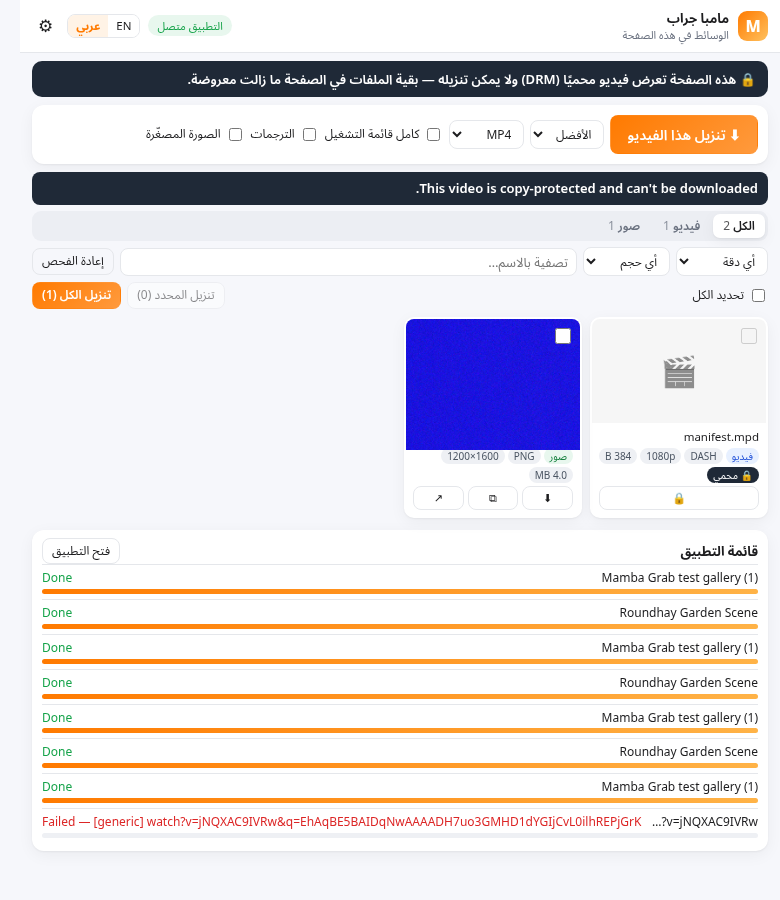
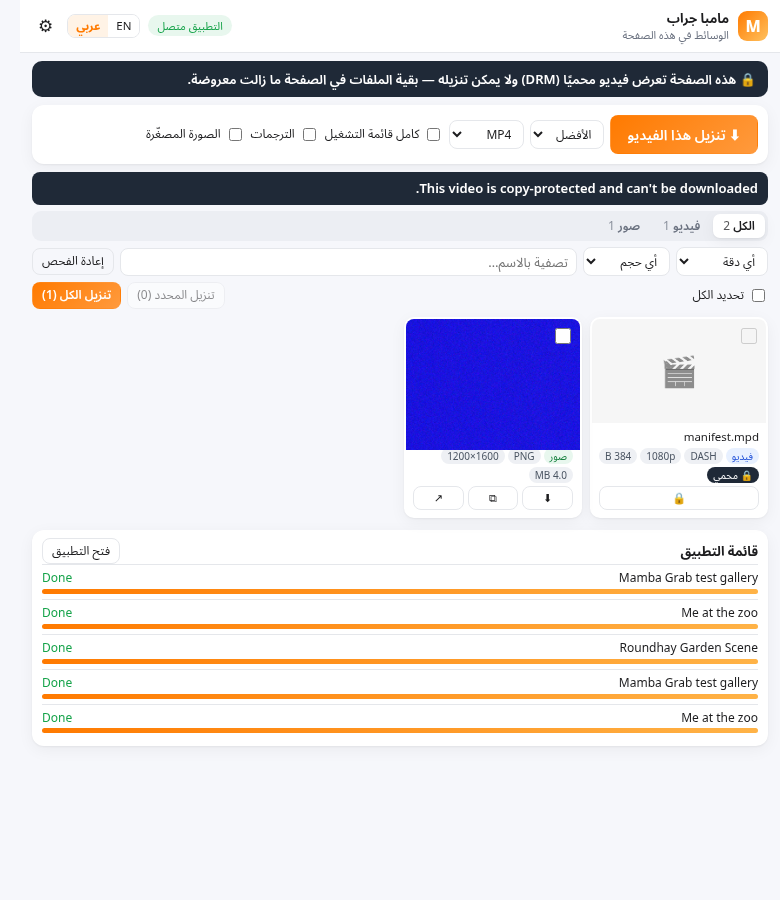
Popup: light thumbnails for upgraded originals + lazy resolution measuring; Wikimedia thumb host → originals; wiki page links are not files; one-click prefers the page's real stream on unknown sites; page title kept for sniffed streams; CI UI screenshots

Changed region(s): [[0.0615, 0.7156, 0.9846, 0.9333], [0.7692, 0.6222, 0.9846, 0.6844]]

diff --git a/extension/popup.js b/extension/popup.js
@@ -128,6 +128,19 @@ async function enrich() {
   $('#sizeNote').textContent = '';
   render();
   window.__scanDone = true;
+  measureDims();
+}
+
+// real dimensions of upgraded originals (loaded off-screen only when a resolution filter needs them)
+let measuring = false;
+async function measureDims() {
+  if (measuring || !(+S.minRes)) return; measuring = true;
+  const todo = items.filter(i => i.kind === 'image' && i.upgradedFrom && !i.dimsKnown);
+  $('#sizeNote').textContent = todo.length ? t('checkingSizes') : '';
+  let k = 0;
+  const one = (it) => new Promise((res) => { const im = new Image(); const to = setTimeout(() => { im.src = ''; res(); }, 15000); im.onload = () => { clearTimeout(to); it.width = im.naturalWidth; it.height = im.naturalHeight; it.dimsKnown = true; res(); }; im.onerror = () => { clearTimeout(to); res(); }; im.src = it.url; });
+  await Promise.all([0, 1, 2, 3].map(async () => { while (k < todo.length) { await one(todo[k++]); if (k % 6 === 0) render(); } }));
+  $('#sizeNote').textContent = ''; measuring = false; render(); window.__dimsDone = true;
 }
 
 // ───────── render ─────────
@@ -160,11 +173,12 @@ function render() {
     const locked = isLocked(it);
     const c = document.createElement('div'); c.className = 'card' + (selected.has(it.url) ? ' sel' : '') + (locked ? ' locked' : '');
     const th = document.createElement('div'); th.className = 'th';
-    const thumbUrl = it.kind === 'image' ? it.url : it.thumb;
+    // upgraded originals can be huge → the grid shows the page's own small version, the download is the original
+    const thumbUrl = it.kind === 'image' ? (it.upgradedFrom || it.url) : it.thumb;
     if (thumbUrl && /^(https?|data):/.test(thumbUrl)) {
       const img = document.createElement('img'); img.loading = 'lazy'; img.referrerPolicy = 'no-referrer-when-downgrade'; img.src = thumbUrl;
-      img.onload = () => { if (it.kind === 'image' && (!it.width || !it.dimsKnown)) { const chg = it.width !== img.naturalWidth; it.width = img.naturalWidth; it.height = img.naturalHeight; it.dimsKnown = true; if (chg) dims(c, it); } };
-      img.onerror = () => { if (it.upgradedFrom && img.src !== it.upgradedFrom) { it.url = it.upgradedFrom; delete it.upgradedFrom; img.src = it.url; } else { img.remove(); th.textContent = ICON[it.kind] || '📎'; } };
+      img.onload = () => { if (it.kind === 'image' && !it.upgradedFrom && (!it.width || !it.dimsKnown)) { const chg = it.width !== img.naturalWidth; it.width = img.naturalWidth; it.height = img.naturalHeight; it.dimsKnown = true; if (chg) dims(c, it); } };
+      img.onerror = () => { img.remove(); th.textContent = ICON[it.kind] || '📎'; };
       th.appendChild(img);
     } else th.textContent = ICON[it.kind] || '📎';
     th.title = it.url; th.onclick = () => toggle(it, c);
@@ -251,7 +265,7 @@ document.addEventListener('DOMContentLoaded', async () => {
   $('#quality').onchange = () => save({ quality: $('#quality').value });
   $('#format').onchange = () => save({ format: $('#format').value });
   for (const k of ['optPlaylist', 'optSubs', 'optThumb']) $('#' + k).onchange = () => save({ [k.slice(3).toLowerCase()]: $('#' + k).checked });
-  $('#minRes').onchange = () => { save({ minRes: $('#minRes').value }); render(); };
+  $('#minRes').onchange = () => { save({ minRes: $('#minRes').value }); render(); measureDims(); };
   $('#minSize').onchange = () => { save({ minSize: $('#minSize').value }); render(); };
   $('#q').oninput = () => render();
   $('#rescan').onclick = () => scanTab();

diff --git a/src/main.js b/src/main.js
@@ -40,7 +40,7 @@ const queue = new Queue({
   stateFile: path.join(USER, 'queue.json'), tempDir: path.join(USER, 'tmp')
 });
 
-let win = null, tray = null, pipe = null, quitting = false, extSeen = 0;
+let win = null, tray = null, pipe = null, quitting = false, extSeen = settings.lastExtSeen || 0;
 const icon = () => nativeImage.createFromPath(path.join(__dirname, '..', 'build', 'icon.png'));
 
 function createWindow(show = true) {
@@ -50,6 +50,17 @@ function createWindow(show = true) {
   win.removeMenu();
   win.loadFile(path.join(__dirname, 'renderer', 'index.html'));
   win.once('ready-to-show', () => { if (show) win.show(); });
+  if (process.env.MAMBA_UI_SHOT) { // test hook: screenshot of the main window (optionally a tab) then quit
+    win.webContents.once('did-finish-load', async () => {
+      await new Promise(r => setTimeout(r, 1500));
+      if (process.env.MAMBA_UI_TAB) await win.webContents.executeJavaScript(`document.querySelector('.tab[data-tab="${process.env.MAMBA_UI_TAB}"]').click()`);
+      if (process.env.MAMBA_UI_URL) { await win.webContents.executeJavaScript(`document.querySelector('#url').value=${JSON.stringify(process.env.MAMBA_UI_URL)};document.querySelector('#analyze').click()`); await new Promise(r => setTimeout(r, +process.env.MAMBA_UI_WAIT || 9000)); }
+      if (process.env.MAMBA_UI_LANG) await win.webContents.executeJavaScript(`document.querySelector('.lang button[data-lang="${process.env.MAMBA_UI_LANG}"]').click()`);
+      await new Promise(r => setTimeout(r, 600));
+      fs.writeFileSync(process.env.MAMBA_UI_SHOT, (await win.webContents.capturePage()).toPNG());
+      quitting = true; app.exit(0);
+    });
+  }
   win.on('close', (e) => {
     if (!quitting && settings.keepInTray && tray) { e.preventDefault(); win.hide(); }
   });
@@ -95,13 +106,18 @@ function jobFromExtension(spec) {
   };
 }
 
+function seenExt() {
+  const first = Date.now() - (settings.lastExtSeen || 0) > 60000;
+  extSeen = settings.lastExtSeen = Date.now(); toRenderer('ext', { seen: extSeen });
+  if (first) saveSettings();
+}
 // handlers shared by the pipe (extension) and the renderer
 const H = {
-  ping: async () => { extSeen = Date.now(); toRenderer('ext', { seen: extSeen }); return { ok: true, app: app.getVersion(), ytdlp: versions.ytdlp, ffmpeg: versions.ffmpeg, outDir: settings.outDir }; },
+  ping: async () => { seenExt(); return { ok: true, app: app.getVersion(), ytdlp: versions.ytdlp, ffmpeg: versions.ffmpeg, outDir: settings.outDir }; },
   show: async () => { createWindow(true); return { ok: true }; },
   list: () => queue.list(),
   jobs: async () => ({ ok: true, jobs: queue.list() }),
-  enqueue: async (m) => { extSeen = Date.now(); const j = queue.add(jobFromExtension(m.job || {})); if (j.status === 'drm') return { ok: false, drm: true, job: j, message: j.message }; return { ok: true, job: j }; },
+  enqueue: async (m) => { seenExt(); const j = queue.add(jobFromExtension(m.job || {})); if (j.status === 'drm') return { ok: false, drm: true, job: j, message: j.message }; return { ok: true, job: j }; },
   cancel: async (m) => ({ ok: queue.cancel(m.jobId) }),
   retry: async (m) => ({ ok: queue.retry(m.jobId) }),
   probe: async (m) => { if (!ytdlpBin) return { ok: false, error: 'yt-dlp missing' }; return Y.probe(ytdlpBin, m.url, Object.assign({ playlist: m.playlist, referer: m.referer, cookiesFromBrowser: m.cookiesFromBrowser }, jsCtx())); },

diff --git a/extension/content.js b/extension/content.js
@@ -22,6 +22,11 @@
   const LAZY_ATTRS = ['data-src', 'data-original', 'data-lazy-src', 'data-lazy', 'data-url', 'data-hi-res-src', 'data-hires', 'data-full', 'data-full-src', 'data-fullsrc', 'data-large', 'data-large-src', 'data-zoom', 'data-zoom-image', 'data-zoom-src', 'data-big', 'data-orig', 'data-orig-file', 'data-original-src', 'data-image', 'data-img', 'data-highres', 'data-actualsrc', 'data-pin-media', 'data-flickity-lazyload'];
   const LAZY_SRCSET = ['data-srcset', 'data-lazy-srcset', 'data-original-set'];
 
+  // wiki-style pages named after a file ("/wiki/File:Clip.ogv", "index.php?title=…") are HTML pages, not files
+  function looksLikePage(h) {
+    try { const pu = new URL(h); let p = pu.pathname; try { p = decodeURIComponent(p); } catch (e) { } return /\/wiki\/|\/index\.php/i.test(pu.pathname) || /[^/]:[^/]/.test(p) || pu.searchParams.has('title'); } catch (e) { return true; }
+  }
+
   function scan() {
     const items = new Map();
     const add = (it) => {
@@ -46,7 +51,7 @@
       for (const a of LAZY_ATTRS) { const v = abs(img.getAttribute(a)); if (v && !/^data:/.test(v)) cands.push({ url: v, w: 0, lazy: true }); }
       // a wrapping link that points at an image file is usually the full-size original
       const link = img.closest('a[href]');
-      if (link) { const h = abs(link.getAttribute('href')); if (h && U.classify(h).kind === 'image') cands.push({ url: h, w: 1e9, link: true }); }
+      if (link) { const h = abs(link.getAttribute('href')); if (h && !looksLikePage(h) && U.classify(h).kind === 'image') cands.push({ url: h, w: 1e9, link: true }); }
       if (!cands.length) continue;
       // pick: linked original > lazy full > largest srcset > current
       const best = cands.find(c => c.link) || cands.filter(c => c.srcset).sort((a, b) => b.w - a.w)[0] || cands.find(c => c.lazy) || cands[0];
@@ -102,8 +107,7 @@
     for (const a of document.querySelectorAll('a[href]')) {
       let h = abs(a.getAttribute('href')); if (!h || !/^https?:/i.test(h)) continue;
       h = h.split('#')[0]; if (h === here) continue;
-      // wiki-style pages named after a file ("/wiki/File:Clip.ogv", "?title=…") are HTML pages, not files
-      try { const pu = new URL(h); if (/\/wiki\/|\/index\.php/i.test(pu.pathname) || /[^/]:[^/]/.test(decodeURIComponent(pu.pathname)) || pu.searchParams.has('title')) continue; } catch (e) { continue; }
+      if (looksLikePage(h)) continue;
       const c = U.classify(h);
       if (c.kind === 'other' || c.kind === 'segment') continue;
       add({ url: h, source: 'link', title: (a.textContent || '').trim().slice(0, 120) || a.title || '', thumb: c.kind === 'image' ? h : null, upgrade: c.kind === 'image' ? U.upgradeCandidates(h) : undefined });

diff --git a/test/run-tests.js b/test/run-tests.js
@@ -12,7 +12,7 @@ async function test(name, fn, { optional } = {}) {
   catch (e) { if (optional) results.push(`SKIP/INFO ${name}: ${e.message.split('\n')[0]}`); else { failed++; results.push(`FAIL ${name}: ${e.stack || e}`); } }
   console.log(results[results.length - 1]);
 }
-const WORK = path.join(__dirname, 'work'); fs.rmSync(WORK, { recursive: true, force: true }); fs.mkdirSync(WORK, { recursive: true });
+const WORK = path.join(__dirname, 'work', 'unit'); fs.rmSync(WORK, { recursive: true, force: true }); fs.mkdirSync(WORK, { recursive: true });
 
 (async () => {
   // ───────── extension helpers ─────────
@@ -37,6 +37,7 @@ const WORK = path.join(__dirname, 'work'); fs.rmSync(WORK, { recursive: true, fo
   await test('original-size upgrades for common sites', () => {
     const up = (u) => U.upgradeCandidates(u)[0];
     assert.strictEqual(up('https://upload.wikimedia.org/wikipedia/commons/thumb/a/a9/Example.jpg/220px-Example.jpg'), 'https://upload.wikimedia.org/wikipedia/commons/a/a9/Example.jpg');
+    assert.strictEqual(up('https://thumb.wikimedia.org/wikipedia/commons/thumb/1/1b/1_pano.jpg/250px-1_pano.jpg?utm_source=x'), 'https://upload.wikimedia.org/wikipedia/commons/1/1b/1_pano.jpg');
     assert.strictEqual(up('https://pbs.twimg.com/media/Fabc?format=jpg&name=small'), 'https://pbs.twimg.com/media/Fabc?format=jpg&name=orig');
     assert.strictEqual(up('https://i.pinimg.com/236x/aa/bb/cc/abc.jpg'), 'https://i.pinimg.com/originals/aa/bb/cc/abc.jpg');
     assert.strictEqual(up('https://example.com/wp-content/uploads/2024/01/photo-300x200.jpg'), 'https://example.com/wp-content/uploads/2024/01/photo.jpg');
@@ -125,6 +126,7 @@ const WORK = path.join(__dirname, 'work'); fs.rmSync(WORK, { recursive: true, fo
     a = Y.buildArgs(job({ playlist: true, items: '1-3', subs: true, embedSubs: true, thumb: true, embedThumb: true, cookiesFile: '/tmp/c.txt', referer: 'https://ref/' }));
     for (const x of ['--yes-playlist', '-I', '--write-subs', '--embed-subs', '--write-thumbnail', '--embed-thumbnail', '--cookies', '--referer']) assert.ok(a.includes(x), 'missing ' + x);
     assert.ok(a[a.indexOf('-o') + 1].includes('%(playlist_index'));
+    a = Y.buildArgs(job({ forceTitle: 'My: page 100%' })); assert.strictEqual(a[a.indexOf('-o') + 1], 'My page 100%% [%(id)s].%(ext)s');
     a = Y.buildArgs(job({ cookiesFromBrowser: 'edge' })); assert.strictEqual(a[a.indexOf('--cookies-from-browser') + 1], 'edge');
     for (const q of ['best', '1080', 'audio']) for (const f of ['mp4', 'mkv', 'webm', 'mp3', 'flac']) for (const x of Y.FORBIDDEN_ARGS) assert.ok(!Y.buildArgs(job({ quality: q, format: f })).includes(x));
   });

diff --git a/test/e2e-extension.js b/test/e2e-extension.js
@@ -52,6 +52,9 @@ const sleep = (ms) => new Promise(r => setTimeout(r, ms));
   ok('extension loads with the fixed ID', extId === EXT_ID, extId);
   // downloads go to a known folder
   await sw.evaluate(() => chrome.storage.local.set({ subfolder: true, lang: 'en' }));
+  // the app is started by the native host on demand (as the extension does with "start the app automatically")
+  const boot = await sw.evaluate(() => new Promise(r => chrome.runtime.sendNativeMessage('com.ammar.mambagrab', { cmd: 'ping', launch: true }, (x) => r(x || { error: chrome.runtime.lastError && chrome.runtime.lastError.message }))));
+  ok('native host auto-starts the app', boot && boot.ok === true, JSON.stringify(boot));
 
   async function popupFor(page) {
     const tabId = await sw.evaluate(async (u) => (await chrome.tabs.query({})).find(t => t.url === u).id, page.url());
@@ -151,8 +154,8 @@ const sleep = (ms) => new Promise(r => setTimeout(r, ms));
       const gp = await ctx.newPage(); await gp.goto('https://commons.wikimedia.org/wiki/Category:Featured_pictures_of_landscapes', { waitUntil: 'domcontentloaded' }); await sleep(3000);
       ({ pop } = await popupFor(gp)); it = await itemsOf(pop);
       const imgs = it.filter(i => i.kind === 'image'); const up = imgs.filter(i => i.upgradedFrom);
-      ok('Commons gallery: thumbnails upgraded to originals', up.length >= 5, `${imgs.length} images, ${up.length} upgraded, e.g. ${up[0] && up[0].url}`);
-      await pop.selectOption('#minRes', '1920'); await sleep(1500); const nBig = await pop.$$eval('.card', c => c.length); info(`gallery: ${nBig} images ≥ 1920px after loading`);
+      ok('Commons gallery: thumbnails upgraded to originals', up.length >= 20 && !imgs.some(i => /\/wiki\/File:/.test(i.url)), `${imgs.length} images, ${up.length} upgraded, e.g. ${up[0] && up[0].url}`);
+      await pop.selectOption('#minRes', '1920'); await pop.waitForFunction(() => window.__dimsDone === true, null, { timeout: 120000 }).catch(() => { }); const nBig = await pop.$$eval('.card', c => c.length); info(`gallery: ${nBig} images ≥ 1920px after loading`);
       await pop.screenshot({ path: path.join(SHOTS, 'popup-commons-gallery.png'), fullPage: true }); await pop.selectOption('#minRes', '0'); await pop.close(); await gp.close();
     } catch (e) { ok('Commons gallery page', false, e.message); }
     try {

diff --git a/extension/background.js b/extension/background.js
@@ -193,9 +193,12 @@ async function downloadThisVideo(tabId, o) {
   if (sniffed.some(i => i.drm)) return { ok: false, drm: true, message: T('drmBlocked', lang) };
   const streams = sniffed.filter(i => i.stream).sort((a, b) => (b.height || 0) - (a.height || 0));
   const files = sniffed.filter(i => !i.stream && i.kind === 'video').sort((a, b) => (b.size || 0) - (a.size || 0));
-  const fallbackUrls = [o.src, ...streams.map(i => i.url), ...files.map(i => i.url)].filter(Boolean);
-  // 1) companion app (yt-dlp on the page URL; falls back to the sniffed stream/file)
-  const r = await sendToApp({ url: o.url || pageUrl, referer: pageUrl, title: o.title, fallbackUrls, quality: o.quality, format: o.format });
+  const candidates = [...streams.map(i => i.url), ...(isDirectHttp(o.src) ? [o.src] : []), ...files.map(i => i.url)].filter((u, i, a) => u && a.indexOf(u) === i);
+  // 1) companion app. Sites yt-dlp knows (YouTube, Vimeo, Commons…) → page URL (best formats, metadata, playlists).
+  //    Elsewhere → the stream/file the page actually plays (HLS/DASH master first), page URL as the last resort.
+  let url = o.url || pageUrl, fallbackUrls = candidates;
+  if (!o.url && !U.isYtdlpSite(pageUrl) && candidates.length) { url = candidates[0]; fallbackUrls = [...candidates.slice(1), pageUrl]; }
+  const r = await sendToApp({ url, referer: pageUrl, title: o.title, fallbackUrls, quality: o.quality, format: o.format });
   if (r && r.ok) return { ok: true, via: 'app', jobId: r.job && r.job.id, message: T('sentToApp', lang) };
   if (r && r.drm) return { ok: false, drm: true, message: T('drmBlocked', lang) };
   // 2) browser downloads API for a direct file

diff --git a/src/queue.js b/src/queue.js
@@ -42,6 +42,8 @@ class Queue extends EventEmitter {
       title: spec.title || spec.url, outDir: spec.outDir || this.opts.outDir(), quality: spec.quality || 'best', format: spec.format || 'mp4'
     }, spec);
     j.title = j.title || j.url;
+    // a sniffed stream/file (not the page itself): yt-dlp would call it "master"/"index" → keep the page title
+    if (spec.title && spec.referer && spec.url !== spec.referer && /\.(m3u8|mpd|mp4|webm|m4v|mov|mp3|m4a|ogg|ogv)(\?|$)/i.test(spec.url)) { j.forceTitle = spec.title; j.titleFixed = true; }
     // cookies from the extension: written to a private temp file for this job only, deleted afterwards
     if (spec.cookiesTxt) {
       const f = path.join(this.opts.tempDir, 'cookies-' + j.id + '.txt');
@@ -108,7 +110,7 @@ class Queue extends EventEmitter {
         // page URL not supported by yt-dlp → try the stream/file the extension sniffed on that page
         const fb = (j.fallbackUrls || []).filter(u => /^https?:/i.test(u));
         j.fallbackIndex = j.fallbackIndex || 0;
-        if (fb.length > j.fallbackIndex && (Y.isUnsupportedMessage(lastErr) || /HTTP Error 4\d\d|Unable to download webpage/i.test(lastErr))) {
+        if (fb.length > j.fallbackIndex && (Y.isUnsupportedMessage(lastErr) || /HTTP Error 4\d\d|Unable to download|Unable to open|Invalid data found|No such file|ffmpeg exited/i.test(lastErr))) {
           const next = fb[j.fallbackIndex++]; j.log.push('Falling back to ' + next);
           this.changed(j); return this.start(j, next);
         }

diff --git a/src/ytdlp.js b/src/ytdlp.js
@@ -80,7 +80,8 @@ function buildArgs(job, ctx = {}) {
   const playlist = !!job.playlist;
   a.push(playlist ? '--yes-playlist' : '--no-playlist');
   if (playlist && job.items) a.push('-I', String(job.items));
-  const tpl = job.template || (playlist
+  const safe = (t) => String(t).replace(/[\\/:*?"<>|\x00-\x1f]+/g, ' ').replace(/%/g, '%%').replace(/\s+/g, ' ').trim().slice(0, 150);
+  const tpl = job.template || (job.forceTitle && !playlist ? safe(job.forceTitle) + ' [%(id)s].%(ext)s' : null) || (playlist
     ? '%(playlist_title,playlist_id|Playlist).100B/%(playlist_index|0)03d - %(title).150B [%(id)s].%(ext)s'
     : '%(title).180B [%(id)s].%(ext)s');
   a.push('-o', tpl);

diff --git a/extension/lib/media-utils.js b/extension/lib/media-utils.js
@@ -100,7 +100,7 @@
     const h = u.hostname, p = u.pathname;
     // Wikimedia / MediaWiki thumbs: /thumb/a/ab/File.jpg/220px-File.jpg → /a/ab/File.jpg
     let m = /^(.*)\/thumb(\/[0-9a-f]\/[0-9a-f]{2}\/[^/]+)\/[^/]+$/.exec(p);
-    if (m) c.push(u.origin + m[1] + m[2]);
+    if (m) c.push((h === 'thumb.wikimedia.org' ? 'https://upload.wikimedia.org' : u.origin) + m[1] + m[2]); // thumbs host → originals host
     // Twitter/X images
     if (/(^|\.)twimg\.com$/.test(h) && /\/media\//.test(p)) {
       const v = new URL(u.href); v.searchParams.set('name', 'orig'); c.push(v.href);
